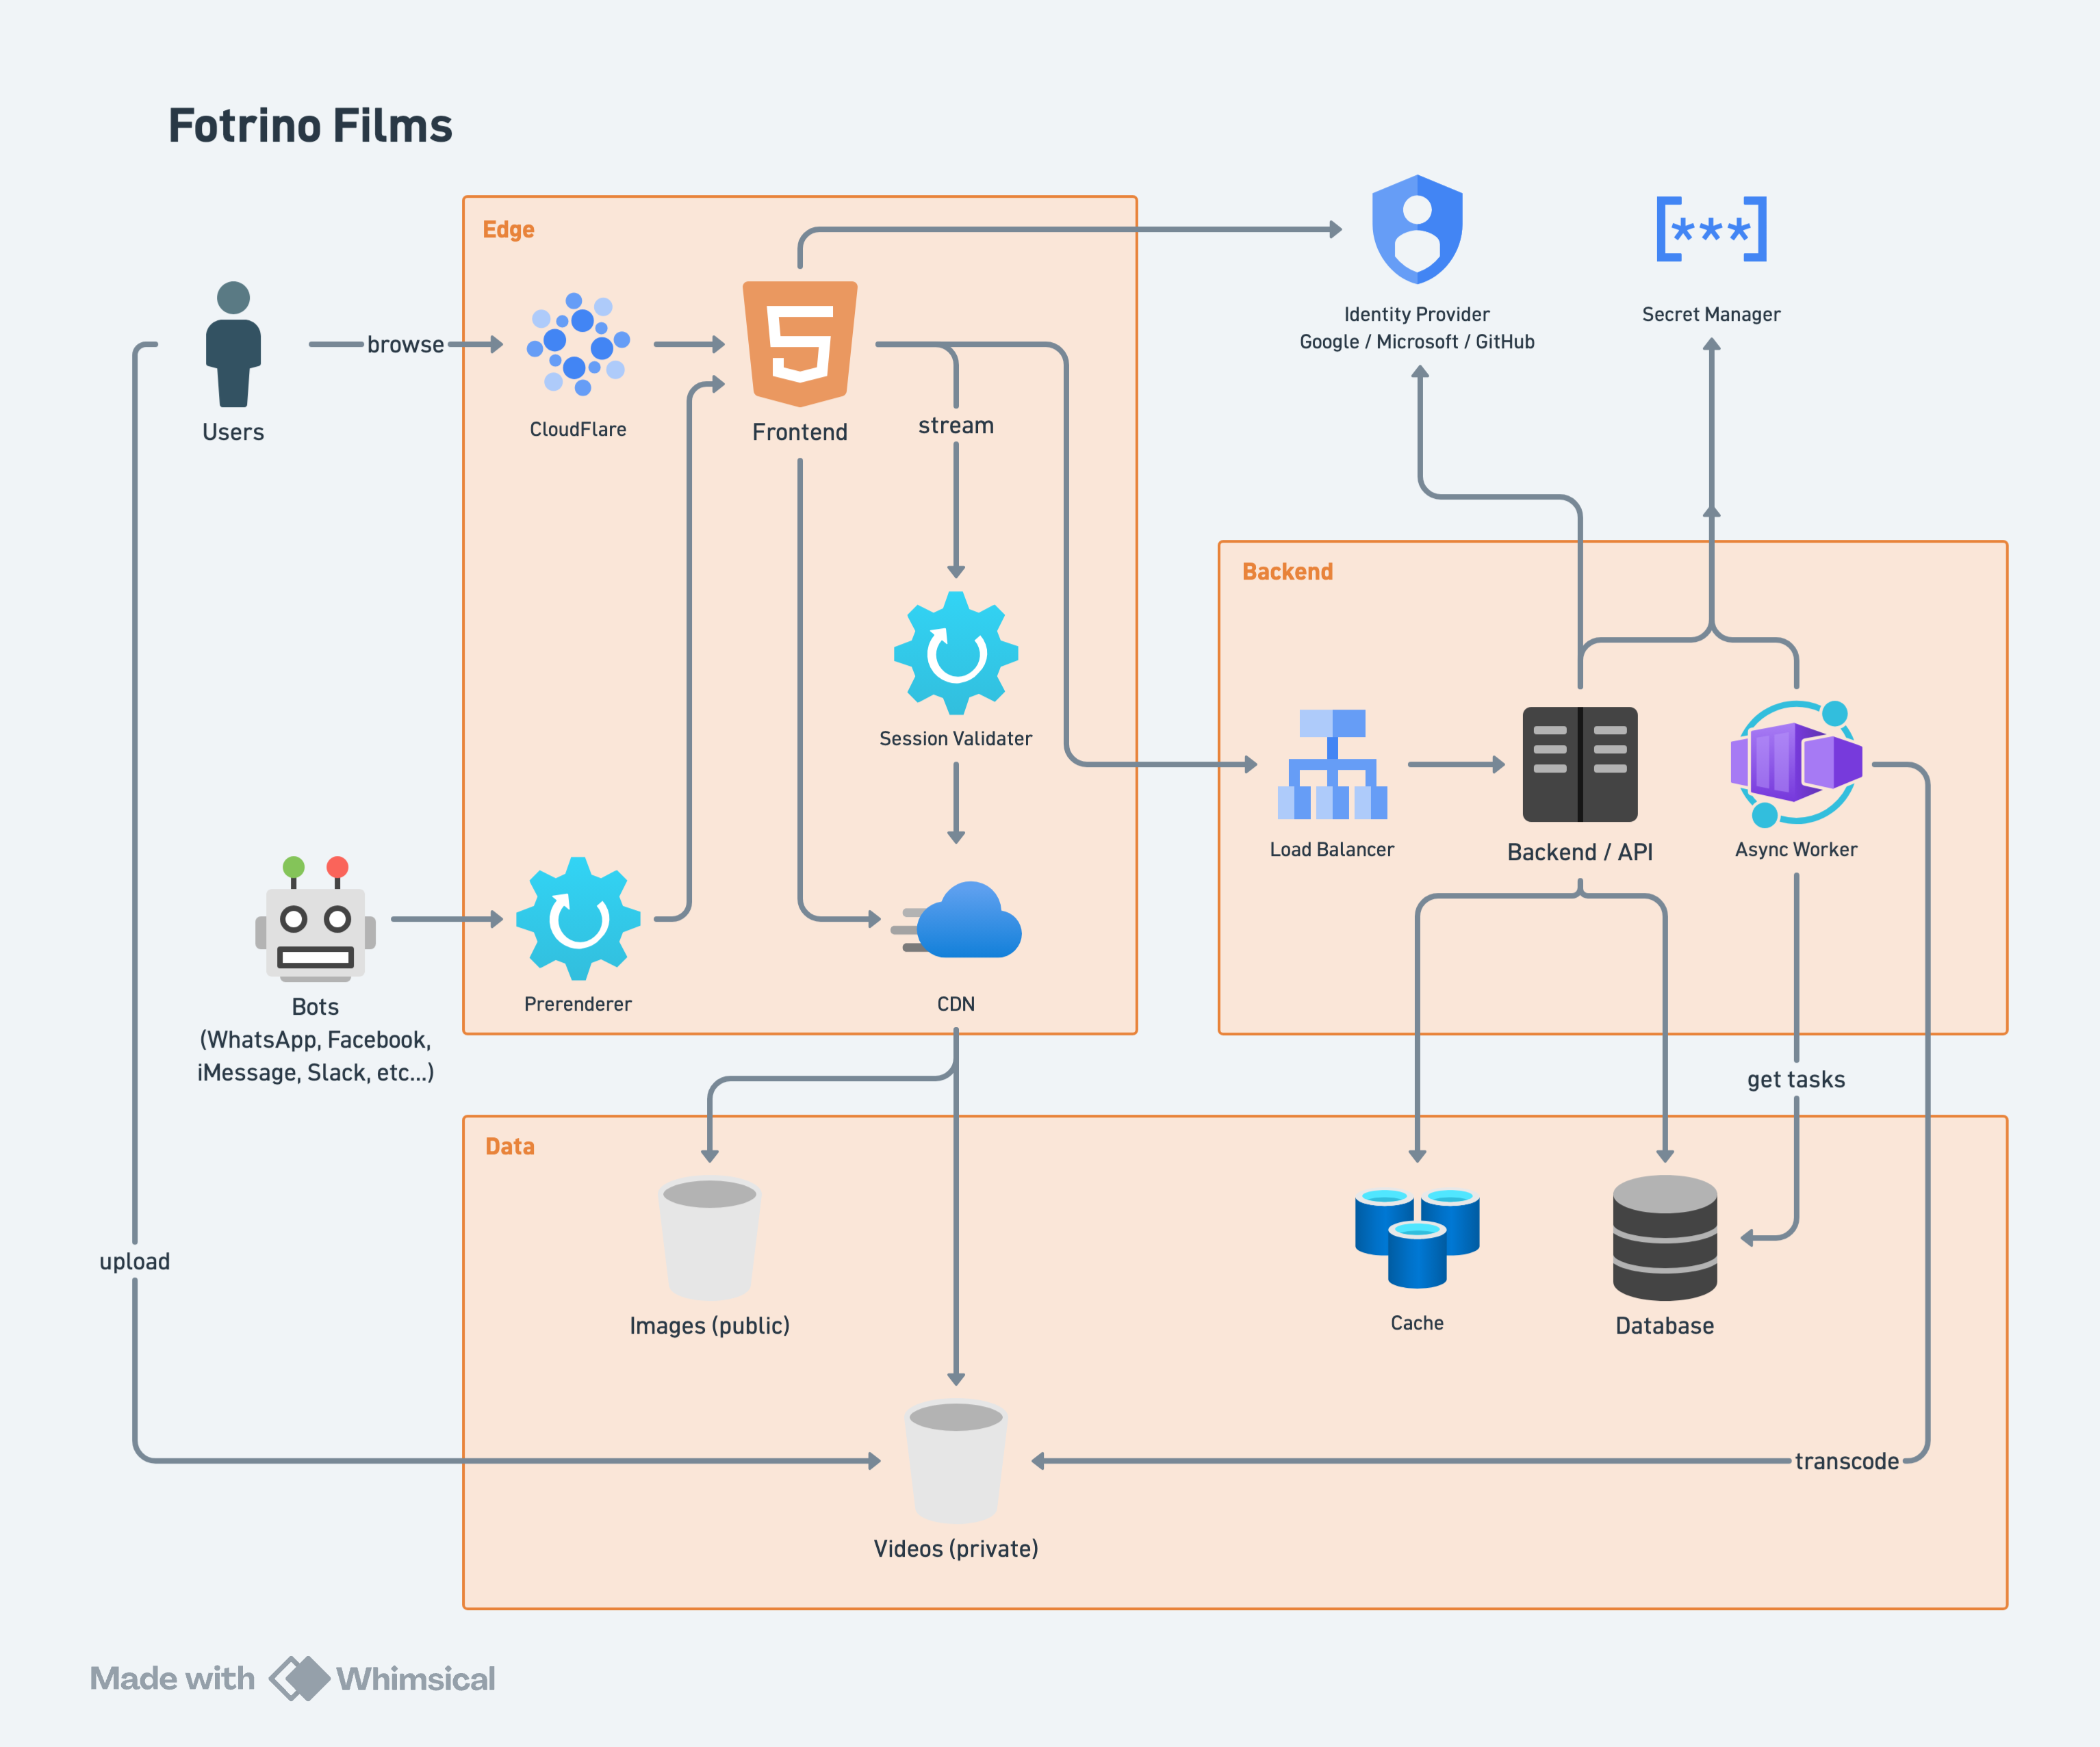
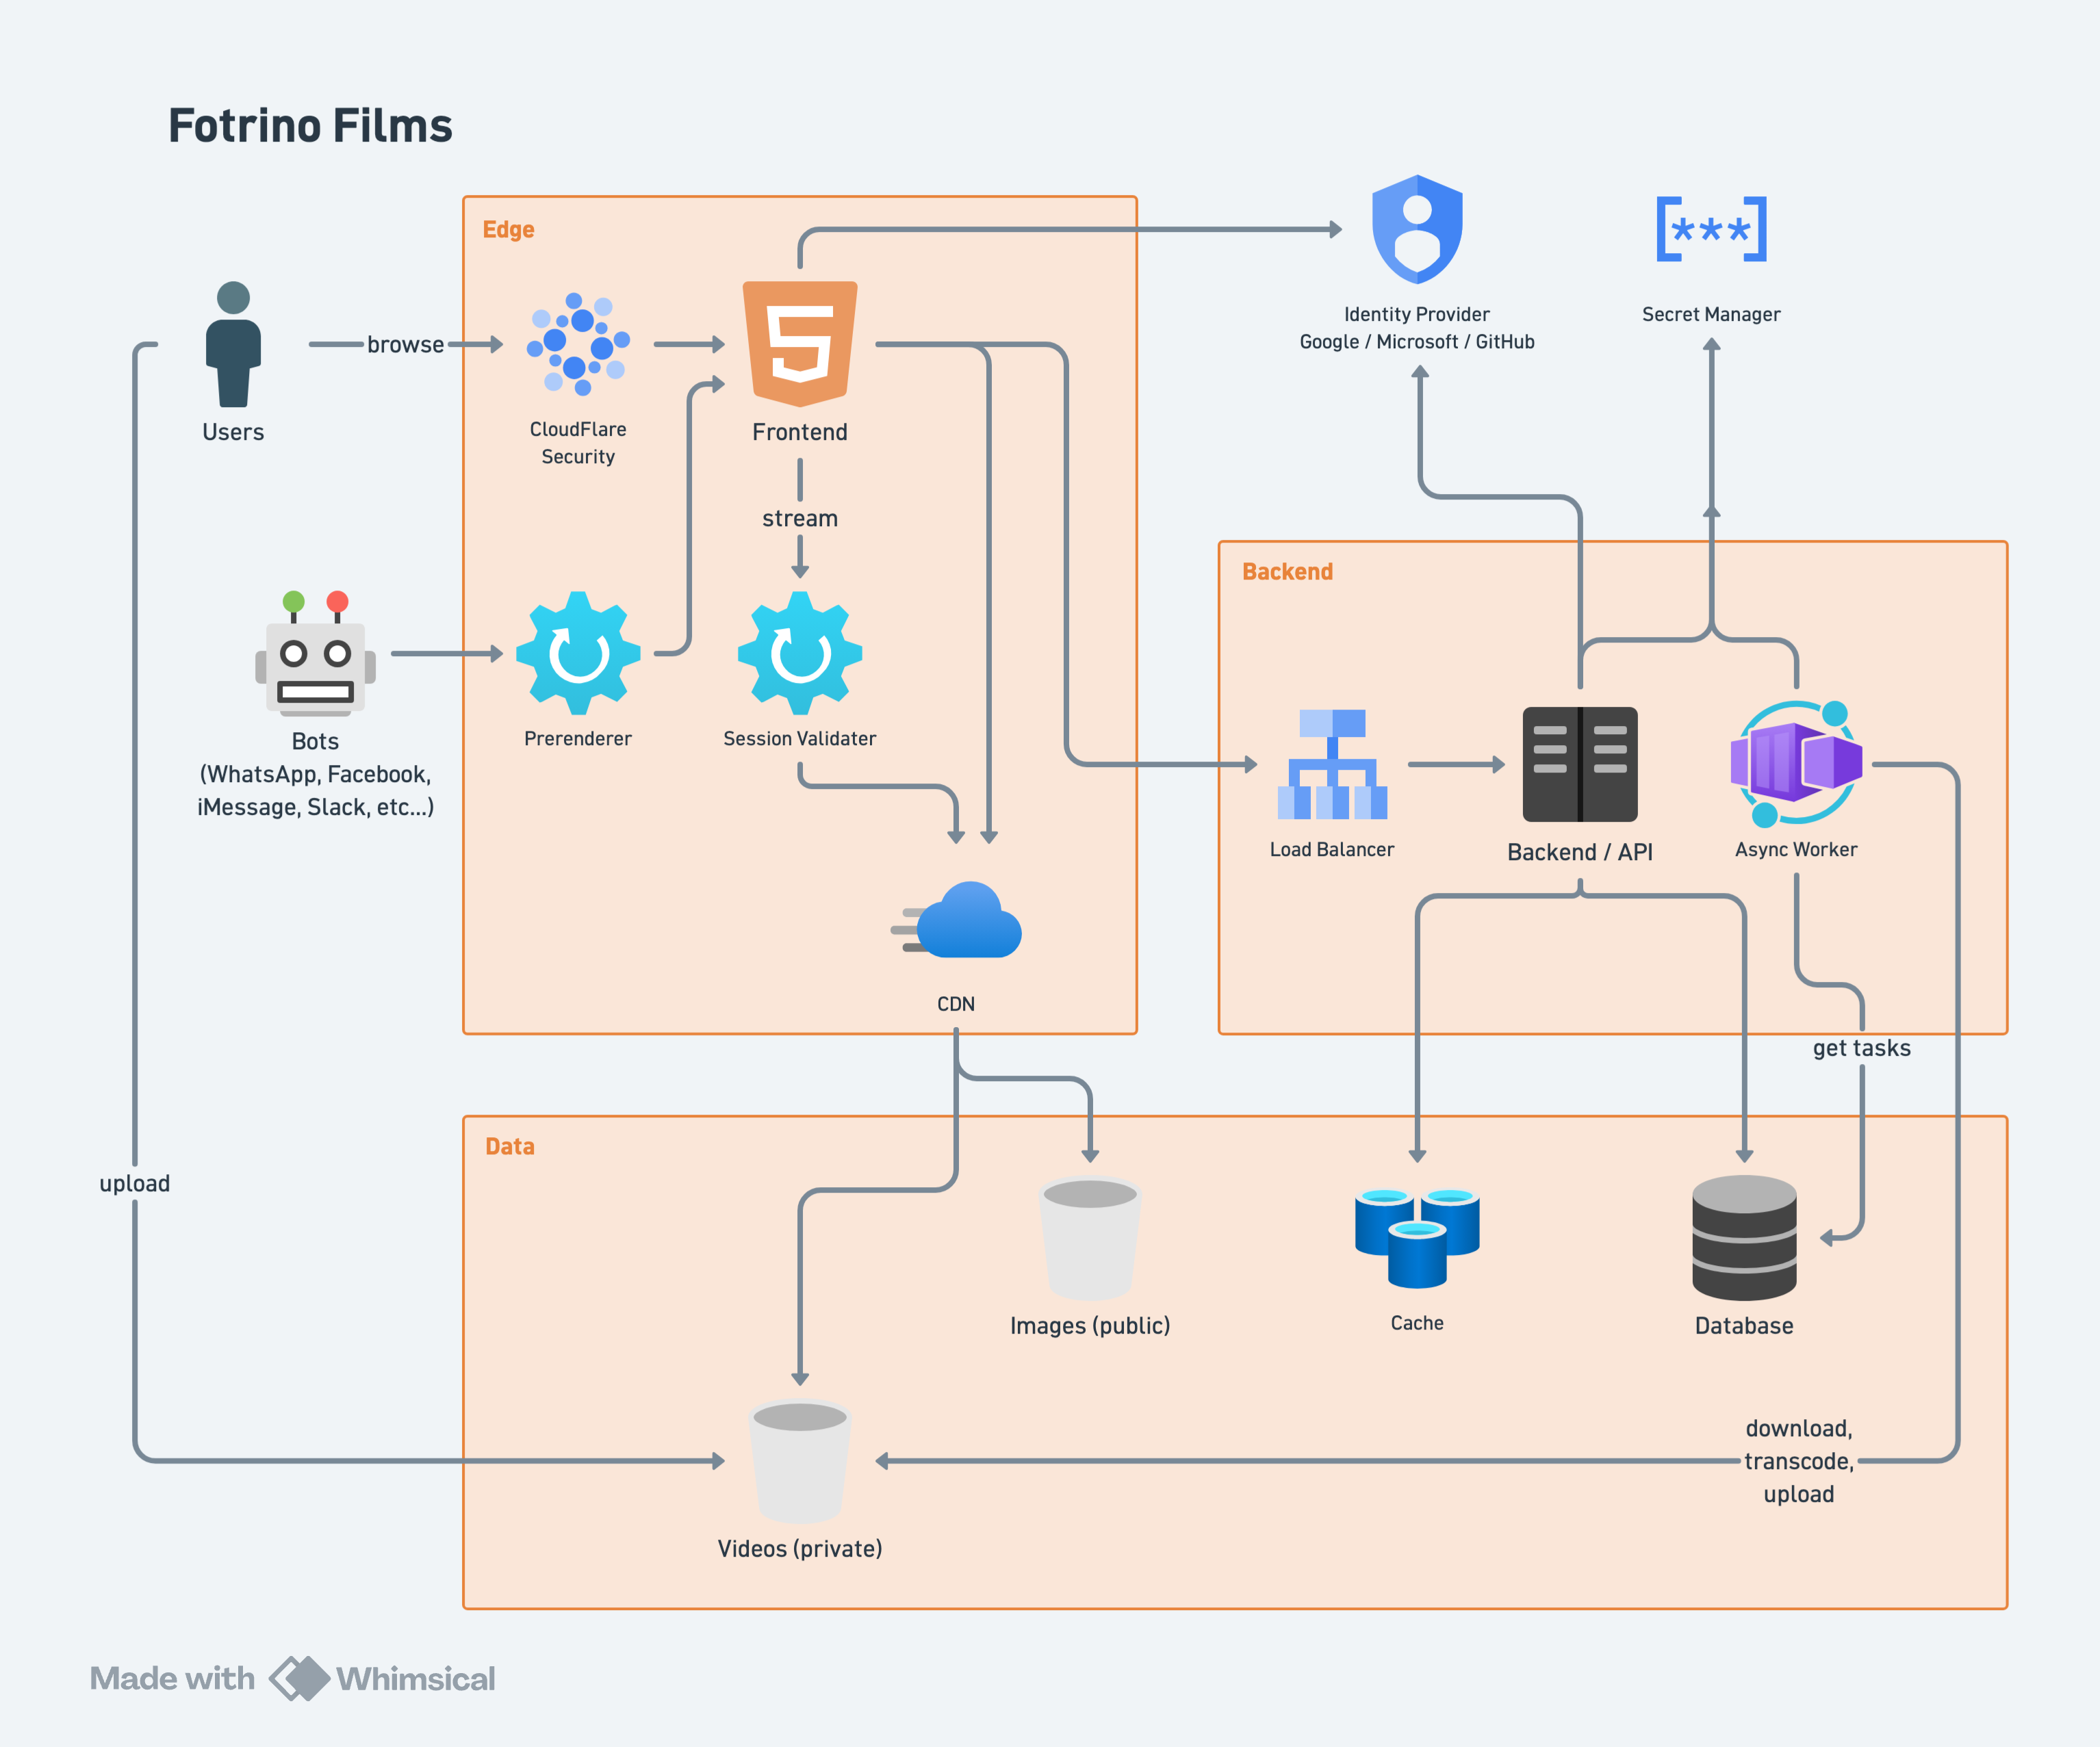
README

diff --git a/README.md b/README.md
@@ -16,6 +16,8 @@ The demo runs on a small deployment for evaluation purposes. It is not represent
 [![SSL Labs SSL Server Test](https://img.shields.io/badge/SSL%20LABS-A%2B-brightgreen?style=for-the-badge)](https://www.ssllabs.com/ssltest/analyze.html?d=films.fotrino.com)
 [![Mozilla HTTP Observatory Grade](https://img.shields.io/mozilla-observatory/grade/films.fotrino.com?publish&style=for-the-badge)](https://observatory.mozilla.org/analyze/films.fotrino.com)
 
+[![Status Monitor](https://img.shields.io/badge/Visit-Status%20Monitor-F2FDFF?style=for-the-badge)](https://stats.uptimerobot.com/7YZWdybJAr)
+
 ## Architecture & Development
 
 ![Architecture Diagram](./docs/fotrino-architecture.png)